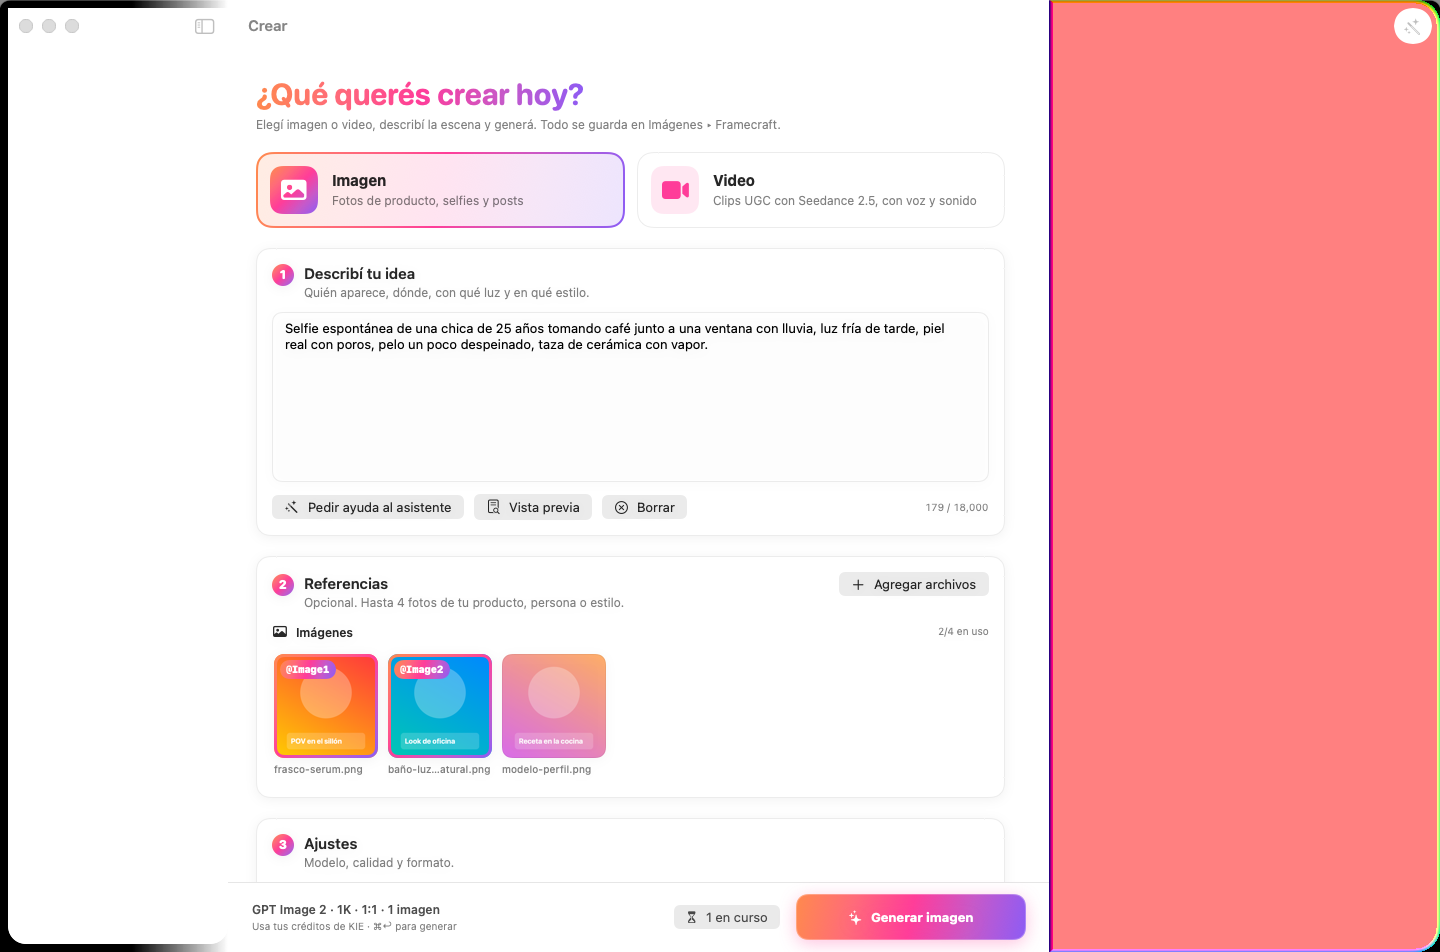
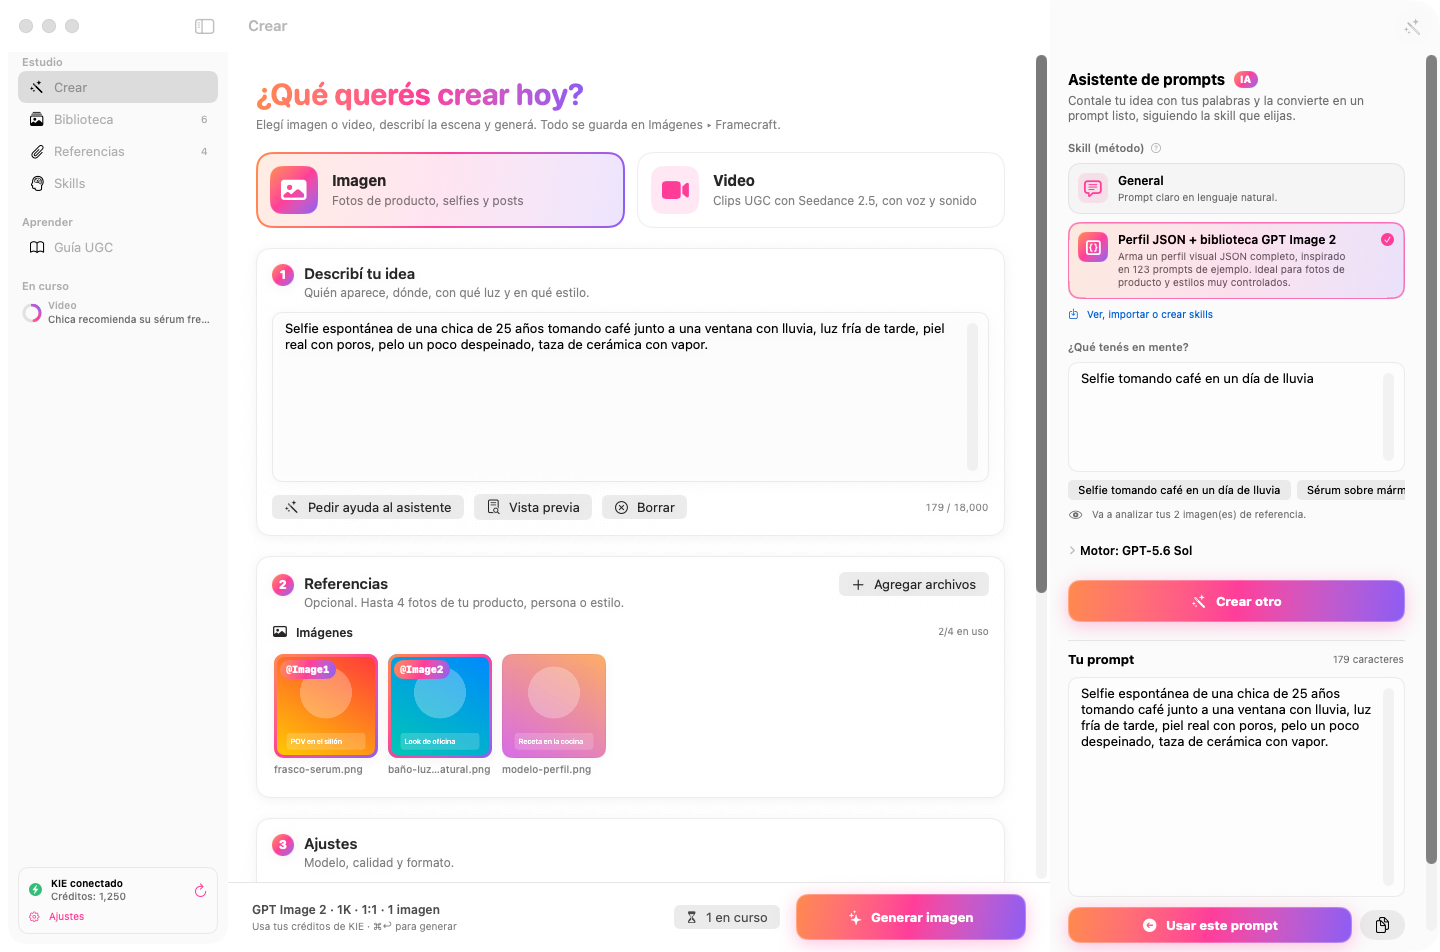
macOS screenshots: keep real window captures, show them in the README
Claude-Session: https://claude.ai/code/session_0168mQETrT4fRpYsjcQsepBa

Changed region(s): [[0.7188, 0.0, 1.0, 1.0], [0.0, 0.0, 0.1562, 1.0], [0.2812, 0.7616, 0.3125, 0.792]]

diff --git a/macos/Sources/Framecraft/Snapshot.swift b/macos/Sources/Framecraft/Snapshot.swift
@@ -86,18 +86,25 @@ enum SnapshotRunner {
                     print("snapshot: \(name).png")
                 }
             }
-            // Real on-screen capture too (includes sidebar/inspector materials that
-            // cacheDisplay cannot draw). Needs screen-recording access; skipped if denied.
+            // Replace it with a real on-screen capture when allowed: cacheDisplay cannot
+            // draw the sidebar/inspector materials. Needs screen-recording access.
             NSApp.activate(ignoringOtherApps: true)
             window.makeKeyAndOrderFront(nil)
             RunLoop.main.run(until: Date().addingTimeInterval(0.8))
             let capture = Process()
             capture.executableURL = URL(fileURLWithPath: "/usr/sbin/screencapture")
-            capture.arguments = ["-x", "-o", "-l\(window.windowNumber)", outputDirectory.appendingPathComponent(name + "-real.png").path]
+            let real = outputDirectory.appendingPathComponent(name + "-real.png")
+            capture.arguments = ["-x", "-o", "-l\(window.windowNumber)", real.path]
             if (try? capture.run()) != nil {
                 let deadline = Date().addingTimeInterval(10)
                 while capture.isRunning && Date() < deadline { RunLoop.main.run(until: Date().addingTimeInterval(0.1)) }
-                print("snapshot: \(name)-real.png (screencapture exit \(capture.isRunning ? -1 : capture.terminationStatus))")
+                // Prefer the real capture when it worked.
+                if !capture.isRunning, capture.terminationStatus == 0, FileManager.default.fileExists(atPath: real.path) {
+                    let target = outputDirectory.appendingPathComponent(name + ".png")
+                    try? FileManager.default.removeItem(at: target)
+                    try? FileManager.default.moveItem(at: real, to: target)
+                    print("snapshot: \(name).png (on-screen capture)")
+                }
             }
             window.orderOut(nil)
         }

diff --git a/macos/README.md b/macos/README.md
@@ -4,6 +4,14 @@ App nativa de macOS, escrita 100 % en Swift y SwiftUI, para crear fotos y videos
 UGC con KIE (GPT Image 2, Nano Banana Pro y Seedance 2.5). Requiere macOS 14
 Sonoma o posterior. Funciona en Macs con Apple Silicon y con Intel.
 
+![Crear un video con la skill UGC y la revisión del prompt](../docs/macos/02-crear-video.png)
+
+| Biblioteca | Bienvenida |
+|---|---|
+| ![Biblioteca](../docs/macos/05-biblioteca-oscuro.png) | ![Bienvenida](../docs/macos/09-bienvenida.png) |
+
+Más capturas en [`docs/macos/`](../docs/macos/) (se regeneran desde Actions → *macOS app (Swift)* → *Run workflow* con “screenshots”).
+
 ## Descargar
 
 1. En GitHub, abrí **Actions → macOS app (Swift)** y entrá en la ejecución más
